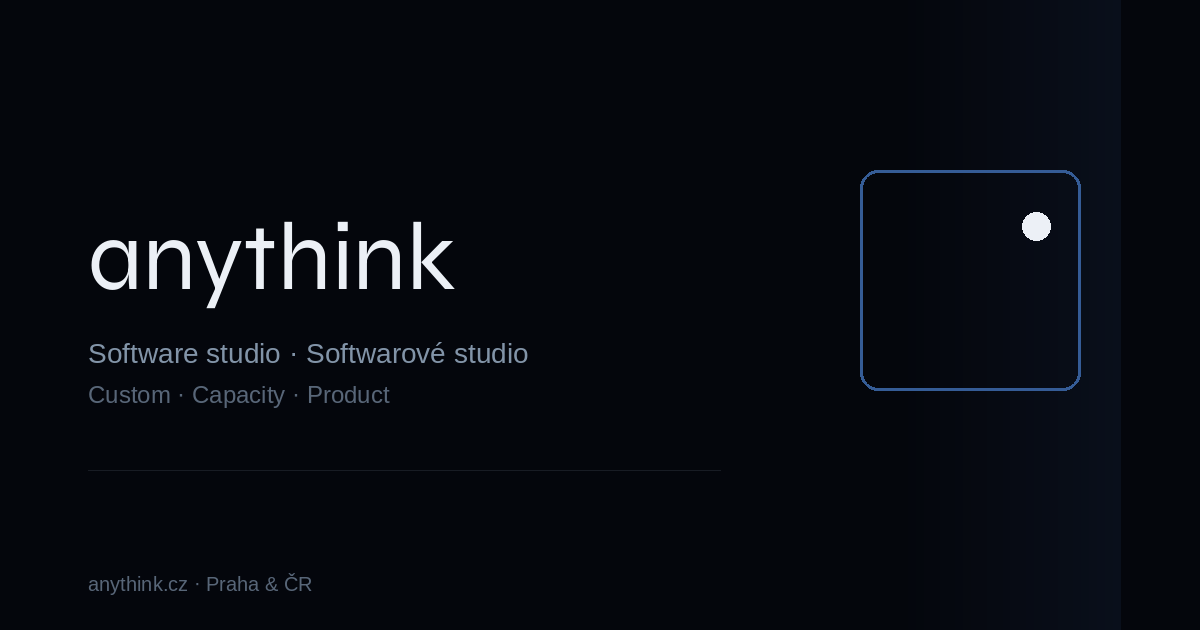
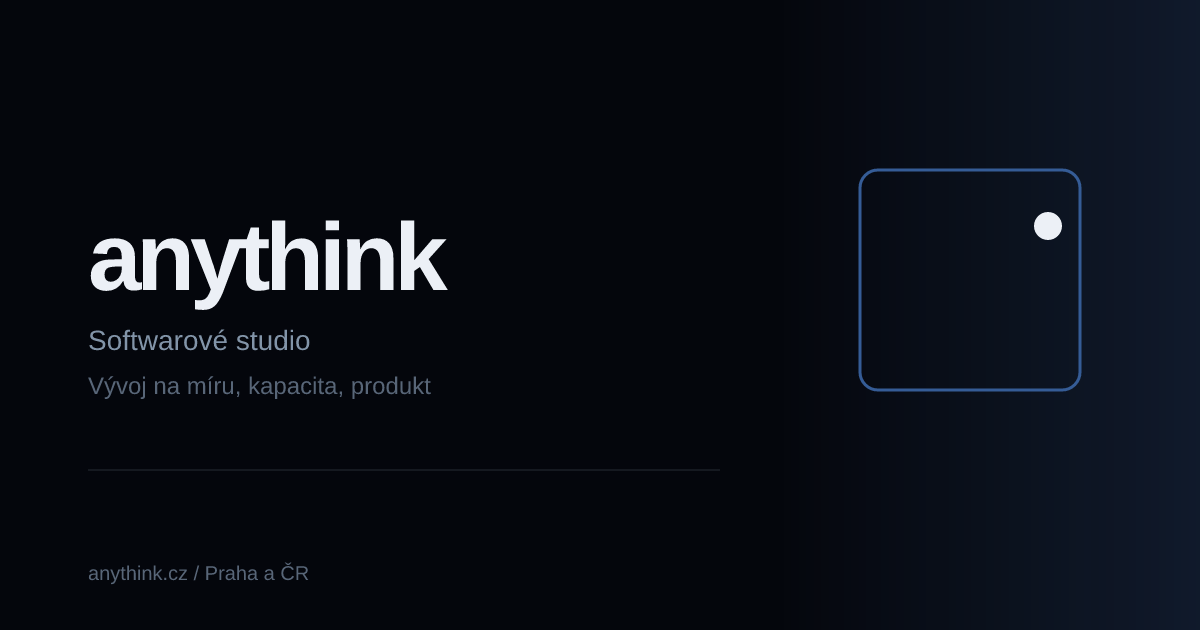
Locale-clean CS/EN copy, split OG, 100ms deck lock
Drop bilingual doubles; CS marquee and alts Czech-only; EN gets og-en.

diff --git a/index.html b/index.html
@@ -34,7 +34,7 @@
     <meta property="og:image:type" content="image/png" />
     <meta property="og:image:width" content="1200" />
     <meta property="og:image:height" content="630" />
-    <meta property="og:image:alt" content="anythink – software studio" />
+    <meta property="og:image:alt" content="anythink – softwarové studio" />
 
     <meta name="twitter:card" content="summary_large_image" />
     <meta name="twitter:title" content="anythink – softwarové studio" />
@@ -43,7 +43,7 @@
       content="Vývoj na míru, kapacita do týmů a sdílený produktový vývoj."
     />
     <meta name="twitter:image" content="https://anythink.cz/og.png" />
-    <meta name="twitter:image:alt" content="anythink – software studio" />
+    <meta name="twitter:image:alt" content="anythink – softwarové studio" />
 
     <meta name="geo.region" content="CZ-ST" />
     <meta name="geo.placename" content="Šestajovice" />
@@ -131,7 +131,7 @@
             "@type": "Person",
             "@id": "https://anythink.cz/#david",
             "name": "David Roučka",
-            "jobTitle": "Founder & CEO",
+            "jobTitle": "Zakladatel a CEO",
             "email": "david@anythink.cz",
             "telephone": "+420725993936",
             "sameAs": [
@@ -294,7 +294,7 @@
       <a href="#faq" aria-label="FAQ"></a>
       <a href="#contact" aria-label="Kontakt"></a>
     </nav>
-    <p class="scene-chrome" aria-hidden="true"><span data-scene-label>1 / 7</span><span aria-hidden="true">/</span><span>scroll / swipe</span></p>
+    <p class="scene-chrome" aria-hidden="true"><span data-scene-label>1 / 7</span><span aria-hidden="true">/</span><span>scroll / gest</span></p>
     <main class="scene-stage-root">
       <section id="top" class="scene scene--hero" data-scene>
         <div class="hero-plane" aria-hidden="true">
@@ -324,11 +324,11 @@
         <div class="marquee" aria-hidden="true">
           <div class="marquee-track">
             <span>Vývoj na míru</span><span>Kapacita do týmu</span><span>Produktový vývoj</span>
-            <span>Praha &amp; ČR</span><span>anythink</span><span>Build to order</span>
-            <span>Engineering</span><span>House products</span>
+            <span>Praha &amp; ČR</span><span>anythink</span><span>Vlastní produkty</span>
+            <span>Zakázky</span><span>Řemeslo</span>
             <span>Vývoj na míru</span><span>Kapacita do týmu</span><span>Produktový vývoj</span>
-            <span>Praha &amp; ČR</span><span>anythink</span><span>Build to order</span>
-            <span>Engineering</span><span>House products</span>
+            <span>Praha &amp; ČR</span><span>anythink</span><span>Vlastní produkty</span>
+            <span>Zakázky</span><span>Řemeslo</span>
           </div>
         </div>
       </section>
@@ -400,7 +400,6 @@
                 </button>
                 <div class="product-detail" id="product-cerebrio" hidden>
                   <p>CRM a BI pro makléře: kontakty, obchody a přehled výkonu na jednom místě.</p>
-                  <p lang="en">CRM and BI for agents: contacts, deals, and performance in one place.</p>
                 </div>
               </li>
               <li class="product-item product-item--planned reveal">
@@ -597,6 +596,6 @@
     </footer>
 
     <script src="https://cdn.jsdelivr.net/npm/gsap@3.12.5/dist/gsap.min.js"></script>
-    <script src="main.v5.js"></script>
+    <script src="main.v6.js"></script>
   </body>
 </html>

diff --git a/en/index.html b/en/index.html
@@ -30,7 +30,7 @@
       property="og:description"
       content="Custom builds, team capacity, and shared product development. Prague area, nationwide CZ."
     />
-    <meta property="og:image" content="https://anythink.cz/og.png" />
+    <meta property="og:image" content="https://anythink.cz/og-en.png" />
     <meta property="og:image:type" content="image/png" />
     <meta property="og:image:width" content="1200" />
     <meta property="og:image:height" content="630" />
@@ -42,7 +42,7 @@
       name="twitter:description"
       content="Custom builds, team capacity, and shared product development."
     />
-    <meta name="twitter:image" content="https://anythink.cz/og.png" />
+    <meta name="twitter:image" content="https://anythink.cz/og-en.png" />
     <meta name="twitter:image:alt" content="anythink – software studio" />
 
     <meta name="geo.region" content="CZ-ST" />
@@ -388,7 +388,6 @@
                 </button>
                 <div class="product-detail" id="product-cerebrio-en" hidden>
                   <p>CRM and BI for agents: contacts, deals, and performance in one place.</p>
-                  <p lang="cs">CRM a BI pro makléře: kontakty, obchody a přehled výkonu na jednom místě.</p>
                 </div>
               </li>
               <li class="product-item product-item--planned reveal">
@@ -585,6 +584,6 @@
     </footer>
 
     <script src="https://cdn.jsdelivr.net/npm/gsap@3.12.5/dist/gsap.min.js"></script>
-    <script src="../main.v5.js"></script>
+    <script src="../main.v6.js"></script>
   </body>
 </html>

diff --git a/main.v2.js b/main.v2.js
@@ -262,7 +262,7 @@
     snapEase: "power2.out",
     wheelThreshold: 40,
     // Ignore wheel/swipe until unwrap finishes, then a short break so one flick ≠ two scenes
-    wheelCooldownMs: 280,
+    wheelCooldownMs: 100,
     touchCommit: 0.12,
   };
 

diff --git a/main.v3.js b/main.v3.js
@@ -262,7 +262,7 @@
     snapEase: "power2.out",
     wheelThreshold: 40,
     // Ignore wheel/swipe until unwrap finishes, then a short break so one flick ≠ two scenes
-    wheelCooldownMs: 280,
+    wheelCooldownMs: 100,
     touchCommit: 0.12,
   };
 

diff --git a/main.v4.js b/main.v4.js
@@ -262,7 +262,7 @@
     snapEase: "power2.out",
     wheelThreshold: 40,
     // Ignore wheel/swipe until unwrap finishes, then a short break so one flick ≠ two scenes
-    wheelCooldownMs: 280,
+    wheelCooldownMs: 100,
     touchCommit: 0.12,
   };
 

diff --git a/main.v5.js b/main.v5.js
@@ -262,7 +262,7 @@
     snapEase: "power2.out",
     wheelThreshold: 40,
     // Ignore wheel/swipe until unwrap finishes, then a short break so one flick ≠ two scenes
-    wheelCooldownMs: 280,
+    wheelCooldownMs: 100,
     touchCommit: 0.12,
   };
 
